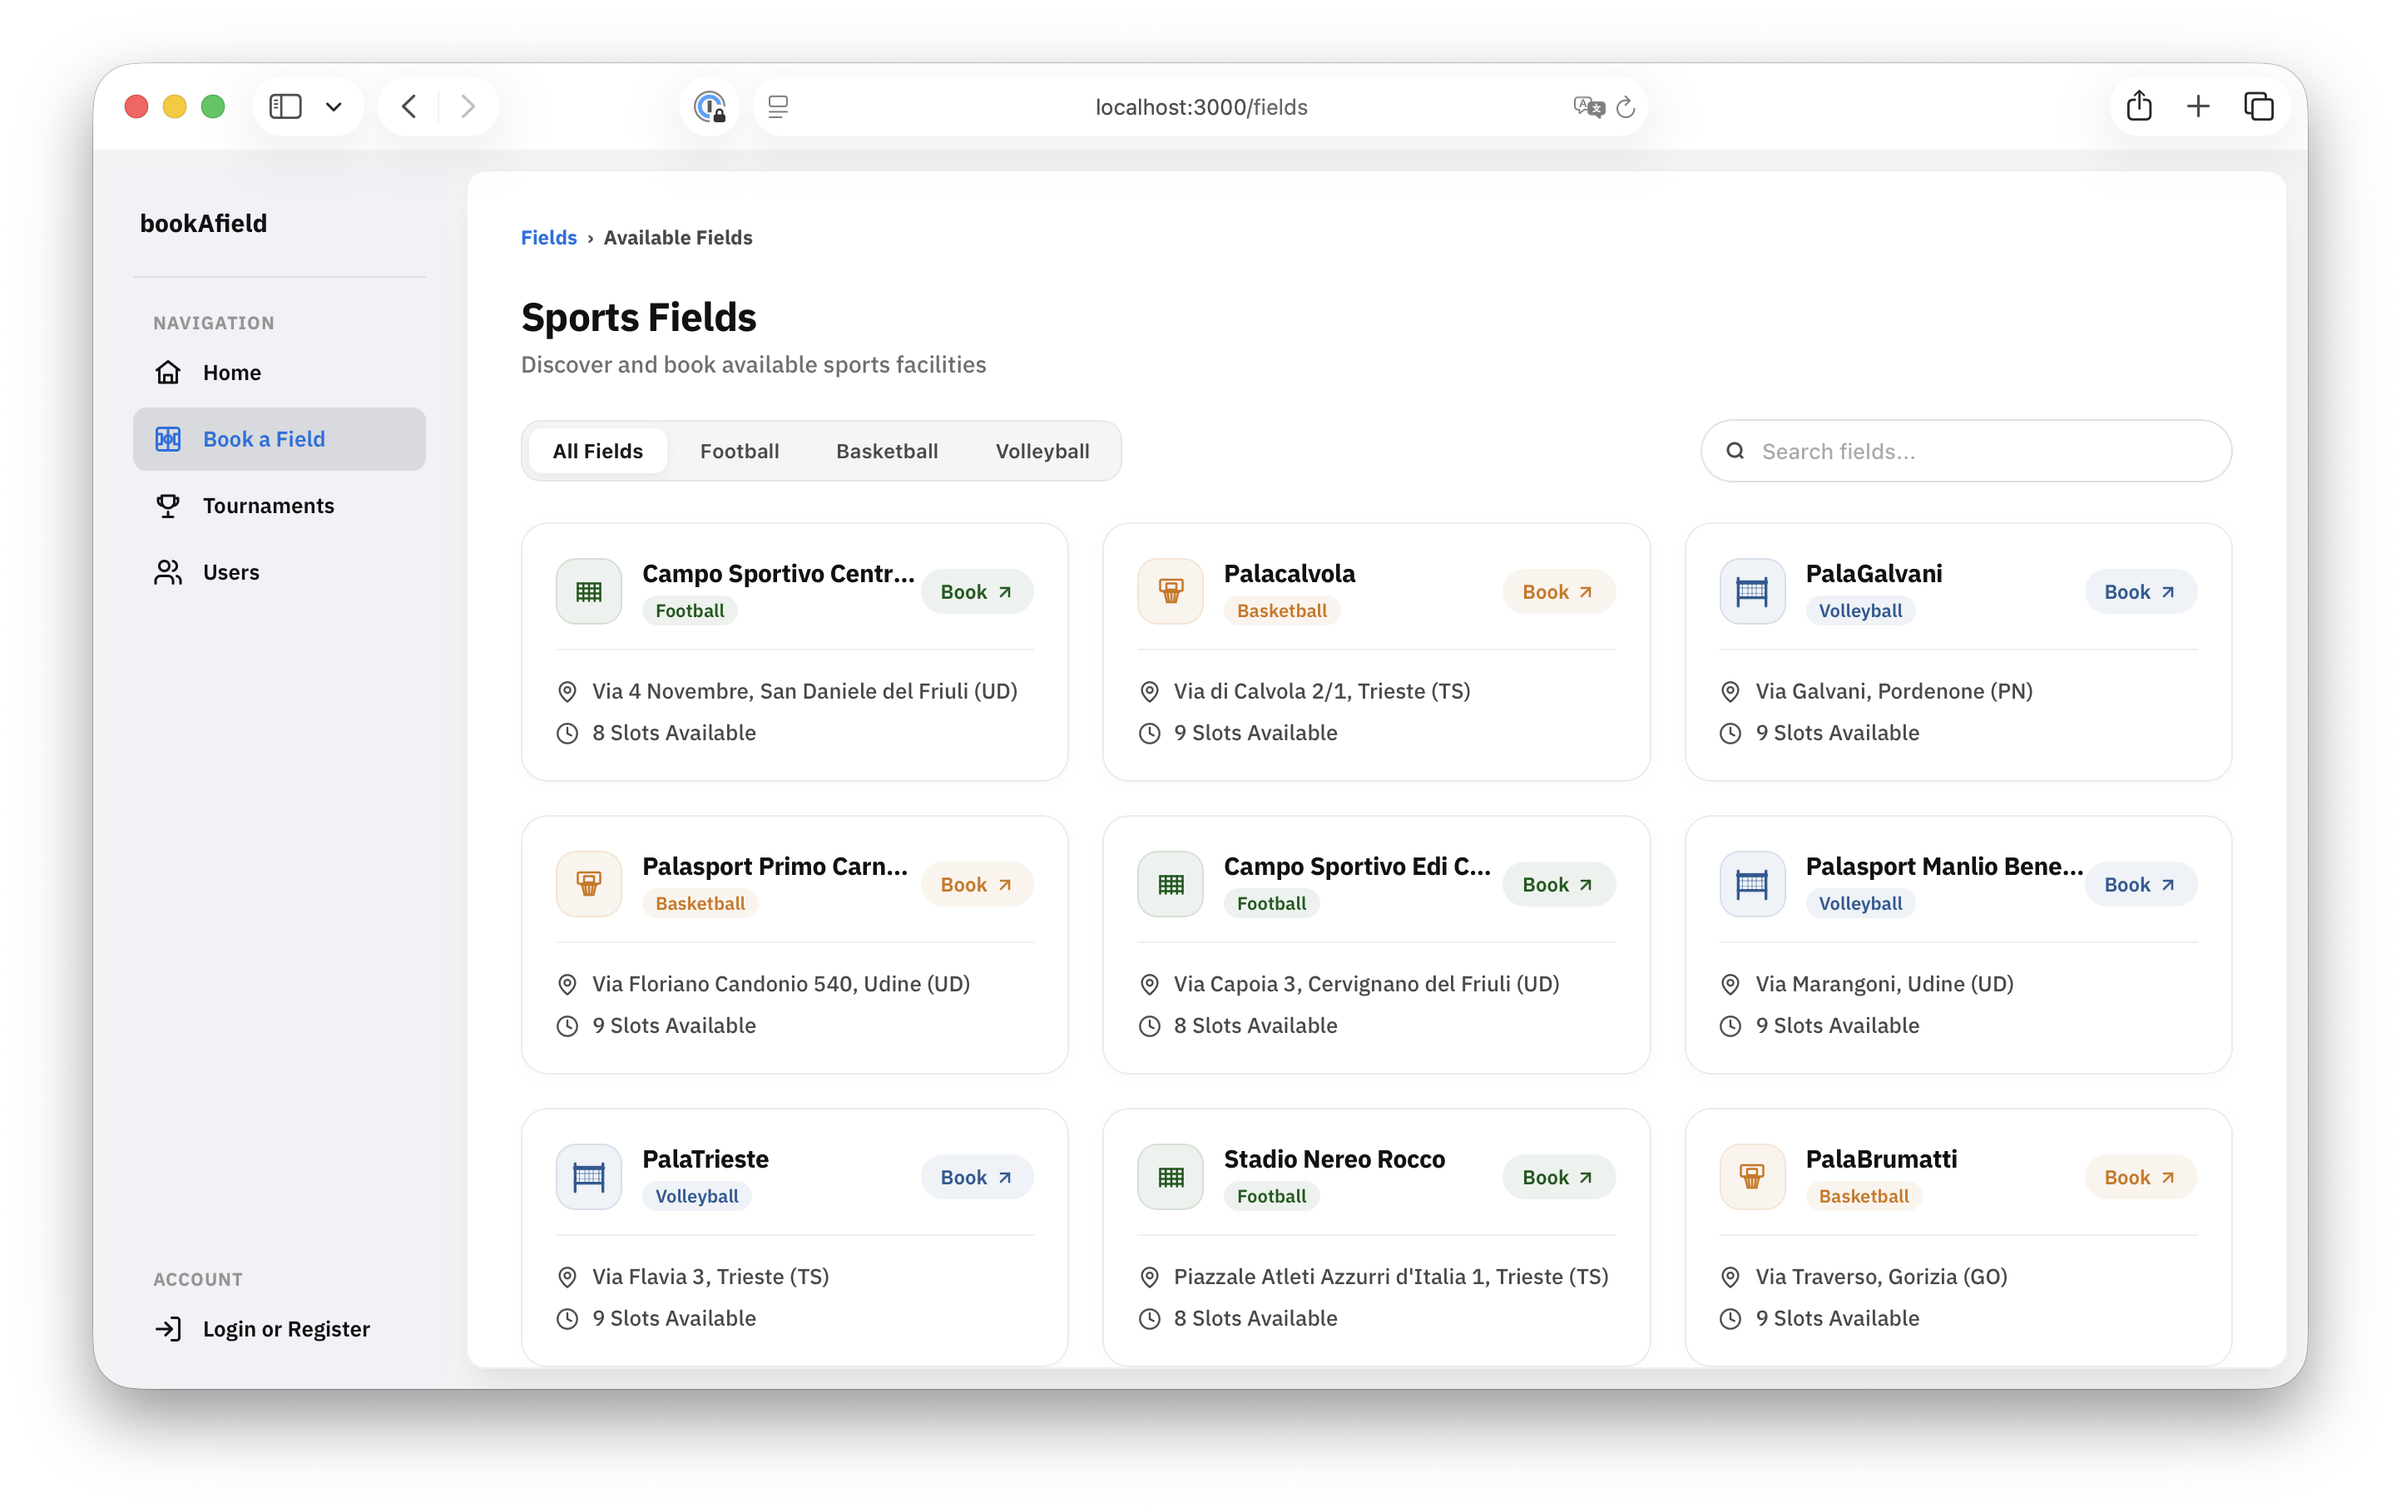
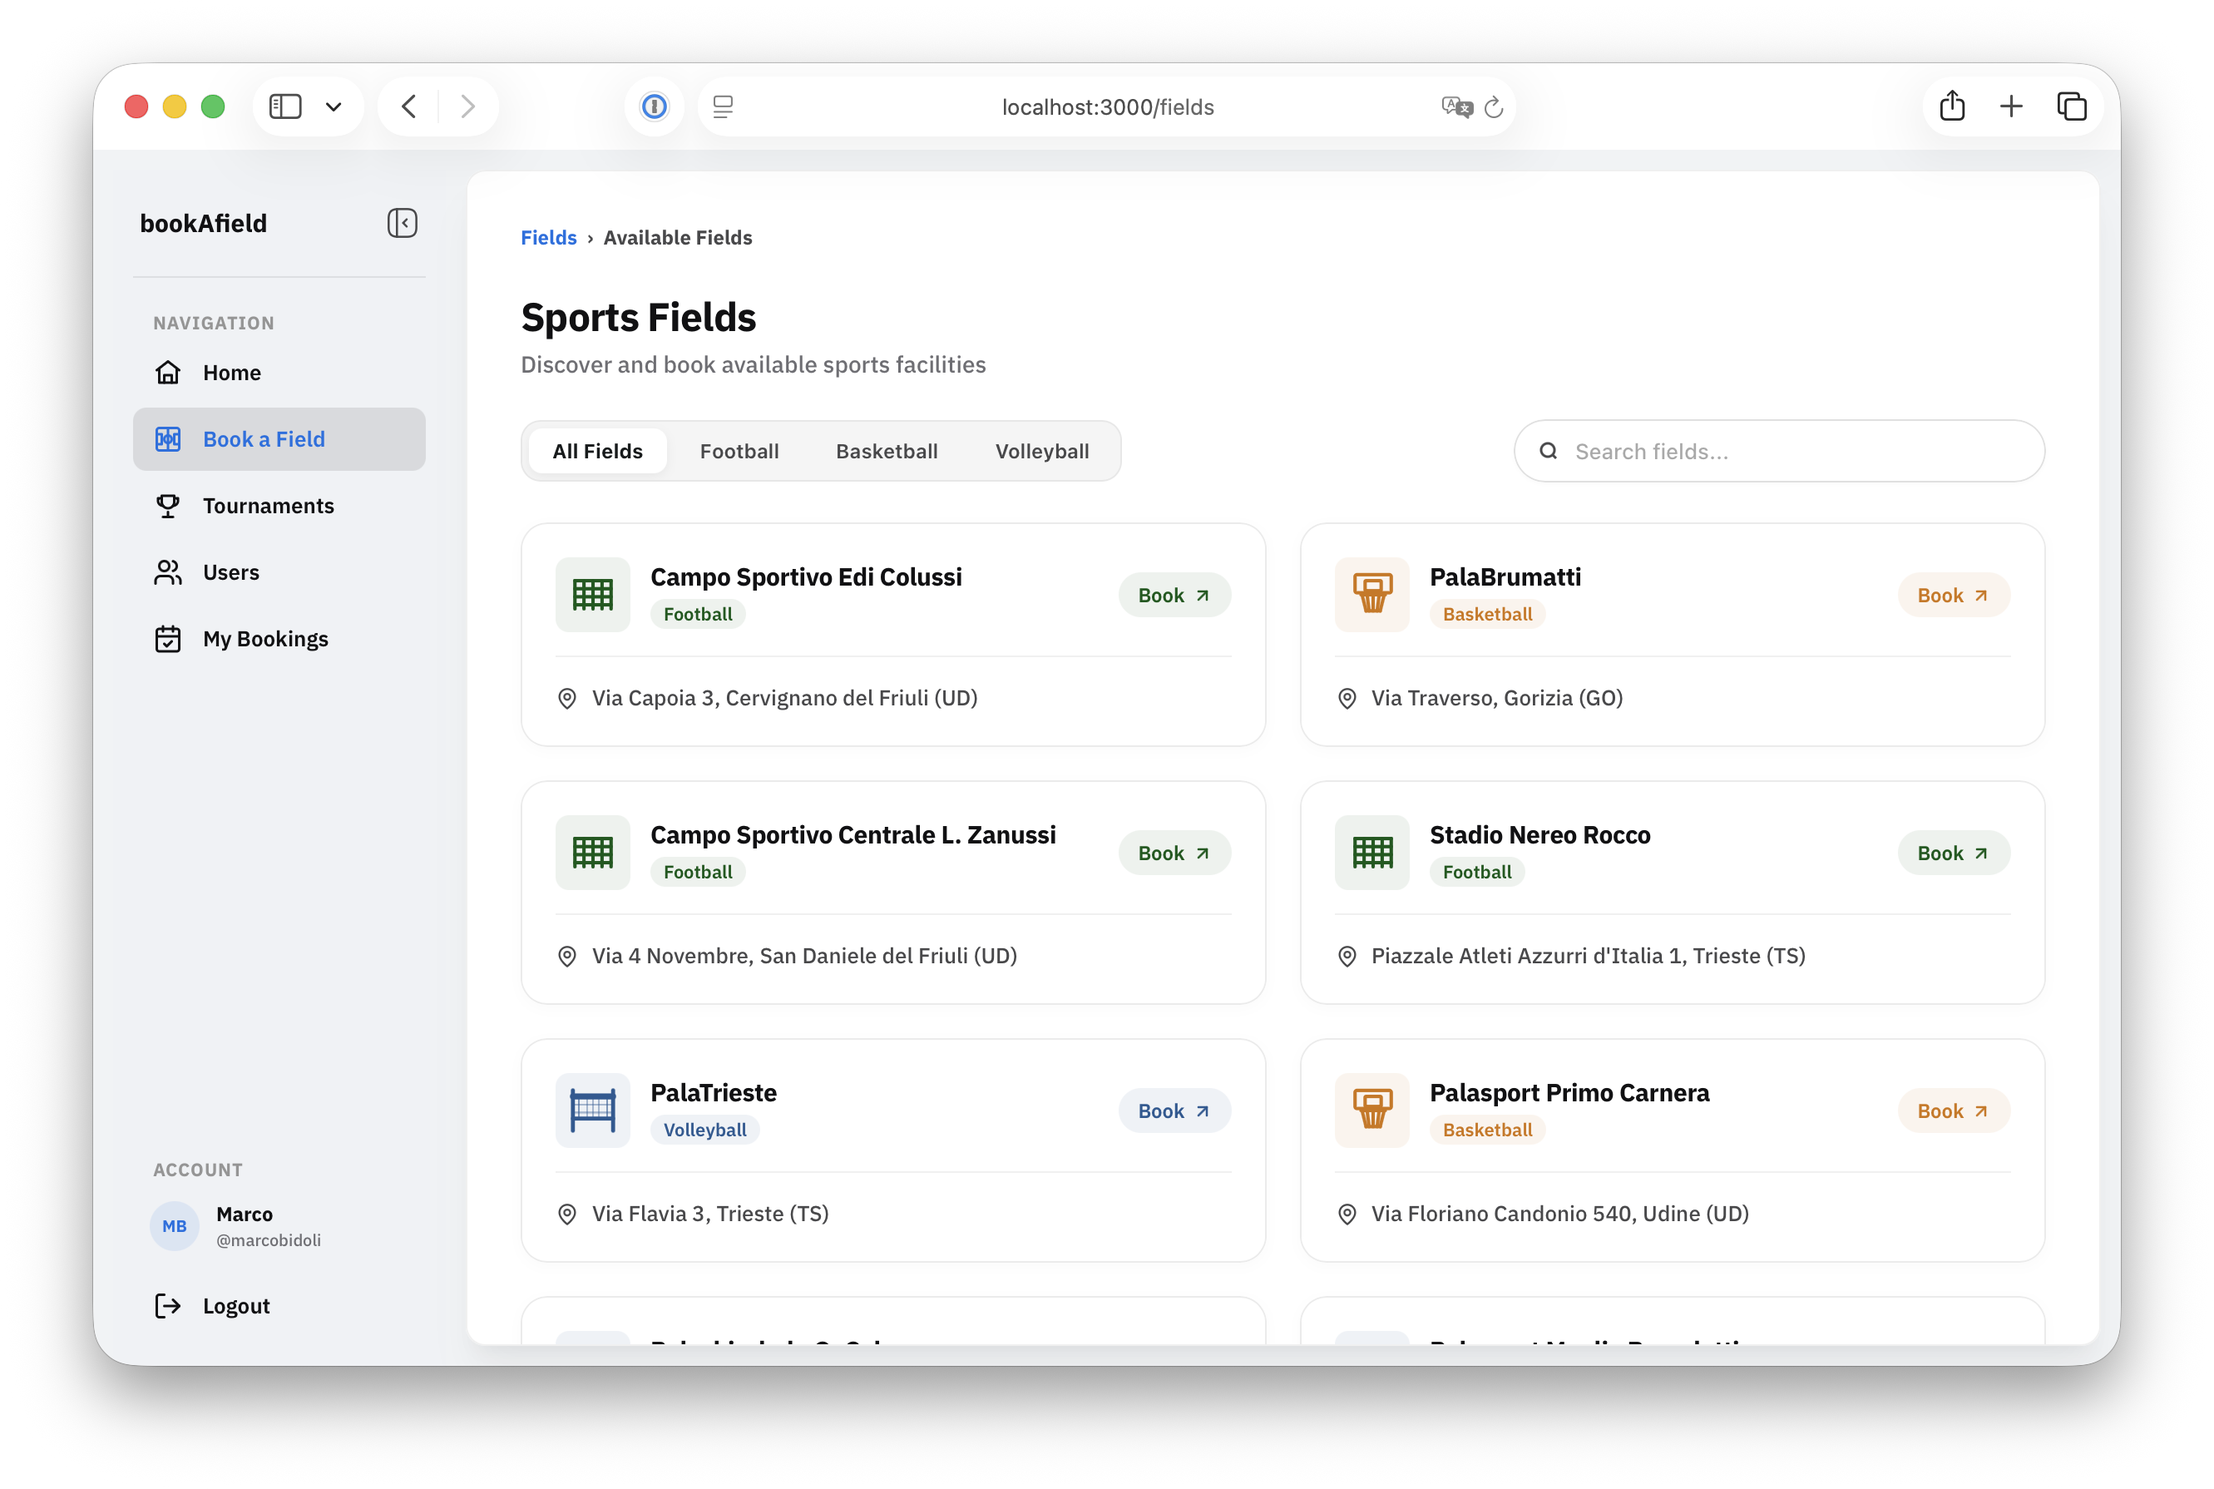
Minor UI changes

diff --git a/frontend/src/components/icons/SidebarIcon.vue b/frontend/src/components/icons/SidebarIcon.vue
@@ -8,10 +8,16 @@ defineProps({
 </script>
 
 <template>
-  <svg viewBox="0 0 24 24" fill="none" xmlns="http://www.w3.org/2000/svg">
+  <svg
+    width="100%"
+    height="100%"
+    viewBox="0 0 24 24"
+    fill="none"
+    xmlns="http://www.w3.org/2000/svg"
+  >
     <path
       d="M21.97 15V9C21.97 4 19.97 2 14.97 2H8.96997C3.96997 2 1.96997 4 1.96997 9V15C1.96997 20 3.96997 22 8.96997 22H14.97C19.97 22 21.97 20 21.97 15Z"
-      stroke="#292D32"
+      stroke="currentColor"
       stroke-width="1.5"
       stroke-linecap="round"
       stroke-linejoin="round"
@@ -19,7 +25,7 @@ defineProps({
 
     <path
       d="M7.96997 2V22"
-      stroke="#292D32"
+      stroke="currentColor"
       stroke-width="1.5"
       stroke-linecap="round"
       stroke-linejoin="round"
@@ -28,7 +34,7 @@ defineProps({
     <path
       v-if="!rotated"
       d="M14.97 9.43994L12.41 11.9999L14.97 14.5599"
-      stroke="#292D32"
+      stroke="currentColor"
       stroke-width="1.5"
       stroke-linecap="round"
       stroke-linejoin="round"
@@ -37,7 +43,7 @@ defineProps({
     <path
       v-else
       d="M12.41 9.43994L14.97 11.9999L12.41 14.5599"
-      stroke="#292D32"
+      stroke="currentColor"
       stroke-width="1.5"
       stroke-linecap="round"
       stroke-linejoin="round"

diff --git a/frontend/src/views/TournamentsView.vue b/frontend/src/views/TournamentsView.vue
@@ -192,7 +192,7 @@ onMounted(() => {
               v-model="newTournament.name"
               type="text"
               required
-              placeholder="e.g. Summer Cup 2026"
+              placeholder="e.g. DATA Cup 2026"
             />
           </div>
 
@@ -335,6 +335,7 @@ onMounted(() => {
   border-radius: 8px;
   background: rgba(255, 255, 255, 0.95);
   color: var(--color-black);
+  font-family: inherit;
   font-size: 12px;
   font-weight: 600;
   outline: none;

diff --git a/frontend/src/components/FieldCard.vue b/frontend/src/components/FieldCard.vue
@@ -128,10 +128,14 @@ const sportClass = computed(() => {
 }
 
 .field-sport-avatar {
-  width: 30px;
-  height: 30px;
+  width: 45px;
+  height: 45px;
+  border-radius: 8px;
 
   color: var(--sport-color);
+
+  padding: 8px;
+  background-color: var(--sport-bg);
 
   display: flex;
   align-items: center;

diff --git a/frontend/src/components/icons/FootballIcon.vue b/frontend/src/components/icons/FootballIcon.vue
@@ -4,6 +4,8 @@
     xmlns="http://www.w3.org/2000/svg"
     viewBox="0 0 24 24"
     fill="none"
+    width="100%"
+    height="100%"
     stroke="currentColor"
     stroke-width="1.7"
     stroke-linecap="round"

diff --git a/frontend/src/components/icons/VolleyballIcon.vue b/frontend/src/components/icons/VolleyballIcon.vue
@@ -4,6 +4,8 @@
     xmlns="http://www.w3.org/2000/svg"
     viewBox="0 0 24 24"
     fill="none"
+    width="100%"
+    height="100%"
     stroke="currentColor"
     stroke-width="1.5"
     stroke-linecap="round"

diff --git a/frontend/src/components/icons/BasketIcon.vue b/frontend/src/components/icons/BasketIcon.vue
@@ -3,6 +3,8 @@
     class="badge-icon"
     xmlns="http://www.w3.org/2000/svg"
     viewBox="0 0 24 24"
+    width="100%"
+    height="100%"
     fill="none"
     stroke="currentColor"
     stroke-width="1.7"
